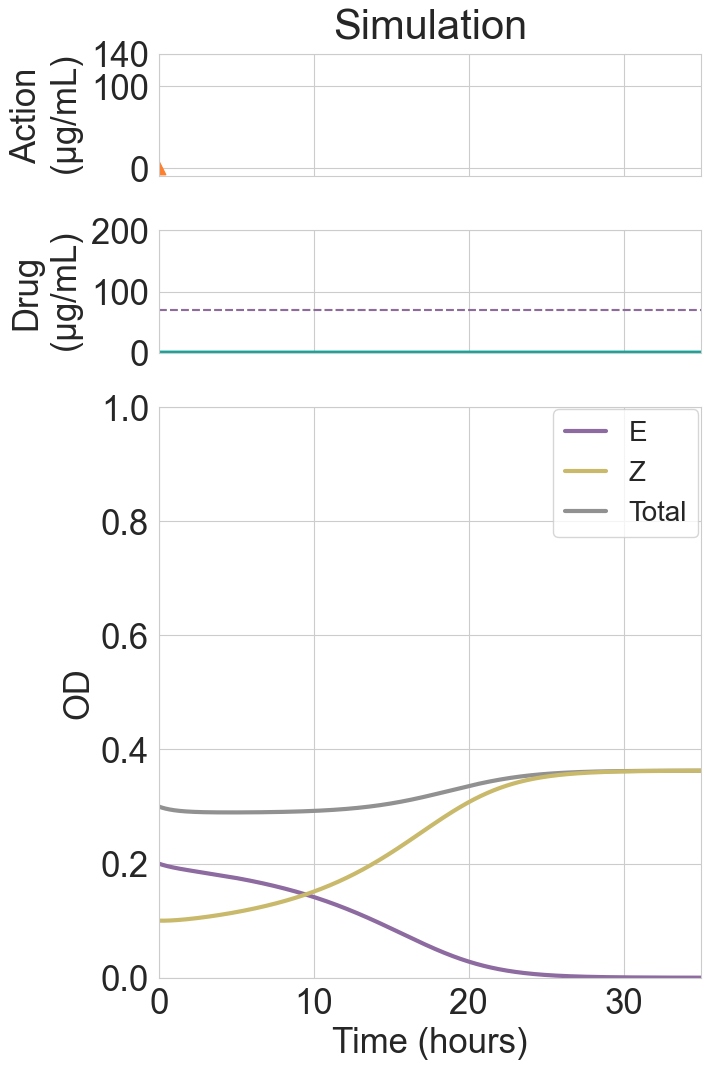
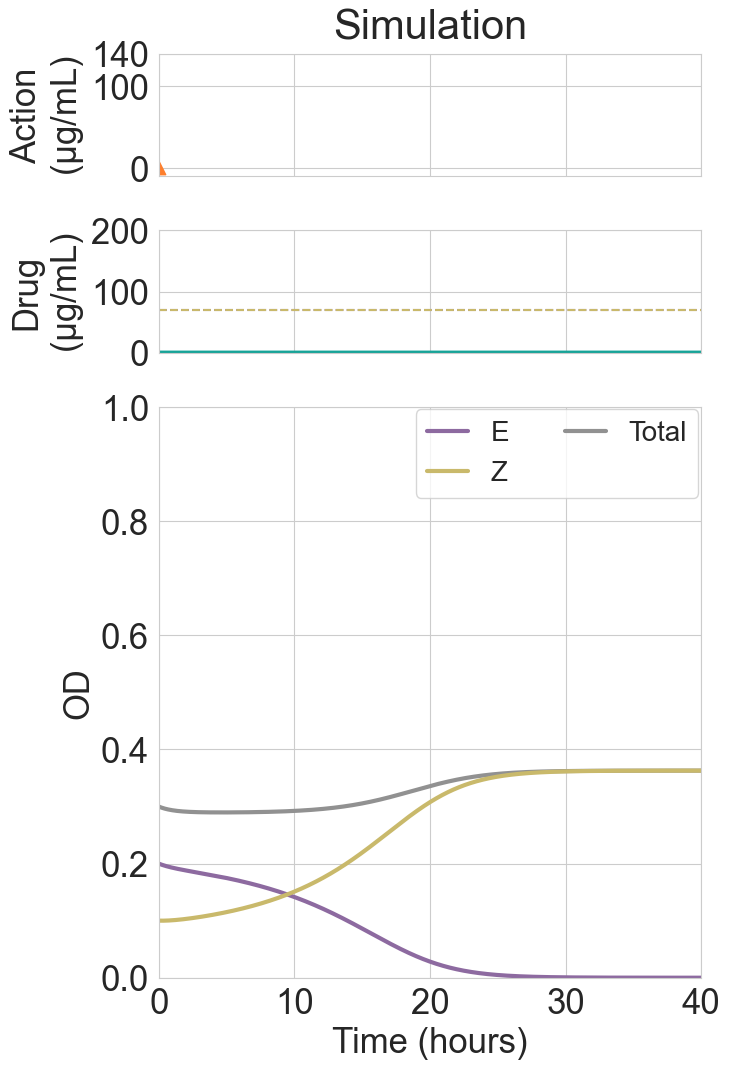
[examples] regenerated with new scripts

diff --git a/simulate_examples.py b/simulate_examples.py
@@ -9,11 +9,15 @@ import matplotlib.pyplot as plt
 
 example_dir = "./examples/"
 
-sim_time = 60.0*35.0
+reward_kwargs = { "w_E": 1.0,
+                  "Din_max": 120.0,
+                  "w_D": 0.2
+                  }
 
 # Demonstrating qualitative analysis results:
 # simulating with different inter-species interaction strengths &/ initial conditions
 exp_names = ["0_0", "neg_neg", "pos_pos", "bi_Edom", "bi_Zdom"]
+sim_time = 60.0*40.0
 
 for e in exp_names:
     pfile = example_dir + "env_params." + e + ".json"
@@ -21,16 +25,19 @@ for e in exp_names:
     with open(pfile) as f:
         env_param_dict = json.load(f)
     
-    env = BacterialEnv(param_dict=env_param_dict, step_time=sim_time)
+    env = BacterialEnv(param_dict=env_param_dict, step_time=sim_time, 
+                       reward_func="minED", reward_kwargs=reward_kwargs,
+                       state_method="cont_E", n_states=None)
     env.step(action = (0.0, sim_time))
 
-    fig = viz.visualize_simulation(env)
+    fig = viz.visualize_simulation(env = env, st='full', tscale=60.0, title='auto')
     fig.savefig(example_dir + e + ".png", bbox_inches='tight')
 
 # Demonstrating the rational drug policy & its effect on the focal species E
 # An example under co-existence regime, with -/- interactions
 # Bacterial densities start (initial conditions) at equilibrium levels
 timestep = 60.0*6
+sim_time = 5760.0
 
 controller = RationalAgent(Din=100.0, drug_time=60.0*3)
 
@@ -42,19 +49,24 @@ for e in exp_names:
     with open(pfile) as f:
         env_param_dict = json.load(f)
     
-    env = BacterialEnv(param_dict=env_param_dict, step_time=timestep, state_method="cont_E")
+    env = BacterialEnv(param_dict=env_param_dict, step_time=timestep, 
+                       reward_func="minED", reward_kwargs=reward_kwargs,
+                       state_method="cont_E", n_states=None)
     
     if e != "drug_mono":
-        env.reset_2_coexist_equilibrium()
+        env.reset_2_equilibria(eq_type="coexist")
+    
+    state = env.state
 
     while env.tSol[-1] < sim_time:
         if (e != "nodrug"):
-            act = controller.get_action(env.state)
-            env.step(action = act)
+            action = controller.get_action(state)
+            next_state, reward, done = env.step(action)
         else:
-            env.step(action = (0.0, timestep))
+            next_state, reward, done = env.step(action = (0.0, timestep))
+        state = next_state
 
     print(f'{e}:     {env.t5p}')
     
-    fig = viz.visualize_simulation(env)
+    fig = viz.visualize_simulation(env = env, st='full', tscale=60.0, title='auto')
     fig.savefig(example_dir + e + ".png", bbox_inches='tight')
